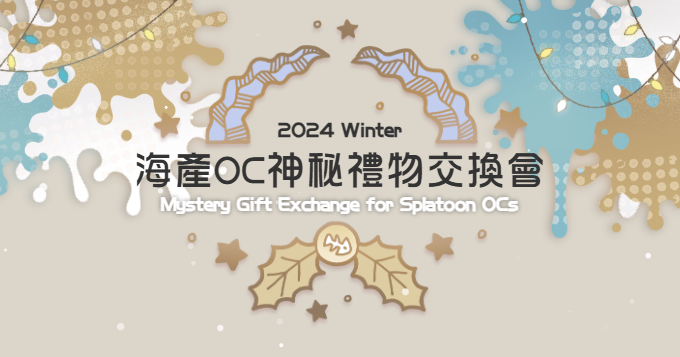
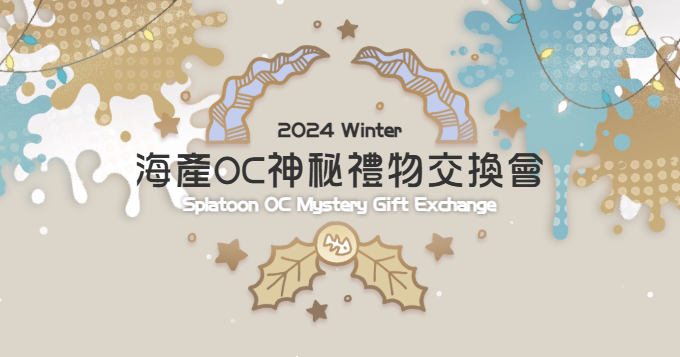
various changes

diff --git a/scripts/modal.js b/scripts/modal.js
@@ -31,7 +31,11 @@ function setUpItemPanel(entry, imgUrl) {
                 ${entry.numOfAlt > 0 ? `<div class='itemArtList'>${Array(entry.numOfAlt + 1).fill('<span>◆</span>').join('')}</div>` : ''}
             </div>
             <div class='itemSummary'>
-                <div class='langSwitch'>⇆</div>
+                <div class='langSwitch'>
+                    <svg class='tranlateIcon' fill="#000000" width="800px" height="800px" viewBox="0 0 52 52">
+                        <path d="M39,18.67H35.42l-4.2,11.12A29,29,0,0,1,20.6,24.91a28.76,28.76,0,0,0,7.11-14.49h5.21a2,2,0,0,0,0-4H19.67V2a2,2,0,1,0-4,0V6.42H2.41a2,2,0,0,0,0,4H7.63a28.73,28.73,0,0,0,7.1,14.49A29.51,29.51,0,0,1,3.27,30a2,2,0,0,0,.43,4,1.61,1.61,0,0,0,.44-.05,32.56,32.56,0,0,0,13.53-6.25,32,32,0,0,0,12.13,5.9L22.83,52H28l2.7-7.76H43.64L46.37,52h5.22Zm-15.3-8.25a23.76,23.76,0,0,1-6,11.86,23.71,23.71,0,0,1-6-11.86Zm8.68,29.15,4.83-13.83L42,39.57Z"/>
+                    </svg>
+                </div>
                 <div class='itemTitle'>
                     <div class='itemTitle1'>${entry.giftName}</div>
                     <div class='itemTitle2'>${entry.giftNameAlt}</div>

diff --git a/styles/modal.scss b/styles/modal.scss
@@ -203,6 +203,18 @@
     }
 }
 
+.tranlateIcon{
+    width: 19px;
+    height: 19px;
+    padding-top: 6px;
+    fill: rgb(58, 49, 45);
+    transition: all 0.2s ease-in;
+    &:hover {
+        fill: rgb(184, 120, 2);
+    }
+}
+
+
 .close {
     z-index: 888;
     cursor: pointer;
@@ -248,9 +260,11 @@
         // transform: translate(-50%,0) !important;
 
         .itemArtWrap {
-            width: 100%;
+            // width: 100%;
+            display: inline-block;
             height: unset !important;
-            position: static !important;
+            position: unset !important;
+            // position: static !important;
             margin: 0 auto !important;
             transform: translate(0, 0) !important;
         }

diff --git a/styles/modal.css b/styles/modal.css
@@ -186,6 +186,17 @@
   color: rgb(184, 120, 2);
 }
 
+.tranlateIcon {
+  width: 19px;
+  height: 19px;
+  padding-top: 6px;
+  fill: rgb(58, 49, 45);
+  transition: all 0.2s ease-in;
+}
+.tranlateIcon:hover {
+  fill: rgb(184, 120, 2);
+}
+
 .close {
   z-index: 888;
   cursor: pointer;
@@ -222,9 +233,9 @@
     text-align: center;
   }
   .itemPanel .itemArtWrap {
-    width: 100%;
+    display: inline-block;
     height: unset !important;
-    position: static !important;
+    position: unset !important;
     margin: 0 auto !important;
     transform: translate(0, 0) !important;
   }

diff --git a/2024/gallery.html b/2024/gallery.html
@@ -56,7 +56,7 @@
     </div>
       <h3>2024 Winter</h3>
       <h1>海產OC神秘禮物交換會</h1>
-      <h4>Mystery Gift Exchange for Splatoon OCs</h4>
+      <h4>Splatoon OC Mystery Gift Exchange</h4>
     </div>
 
 
